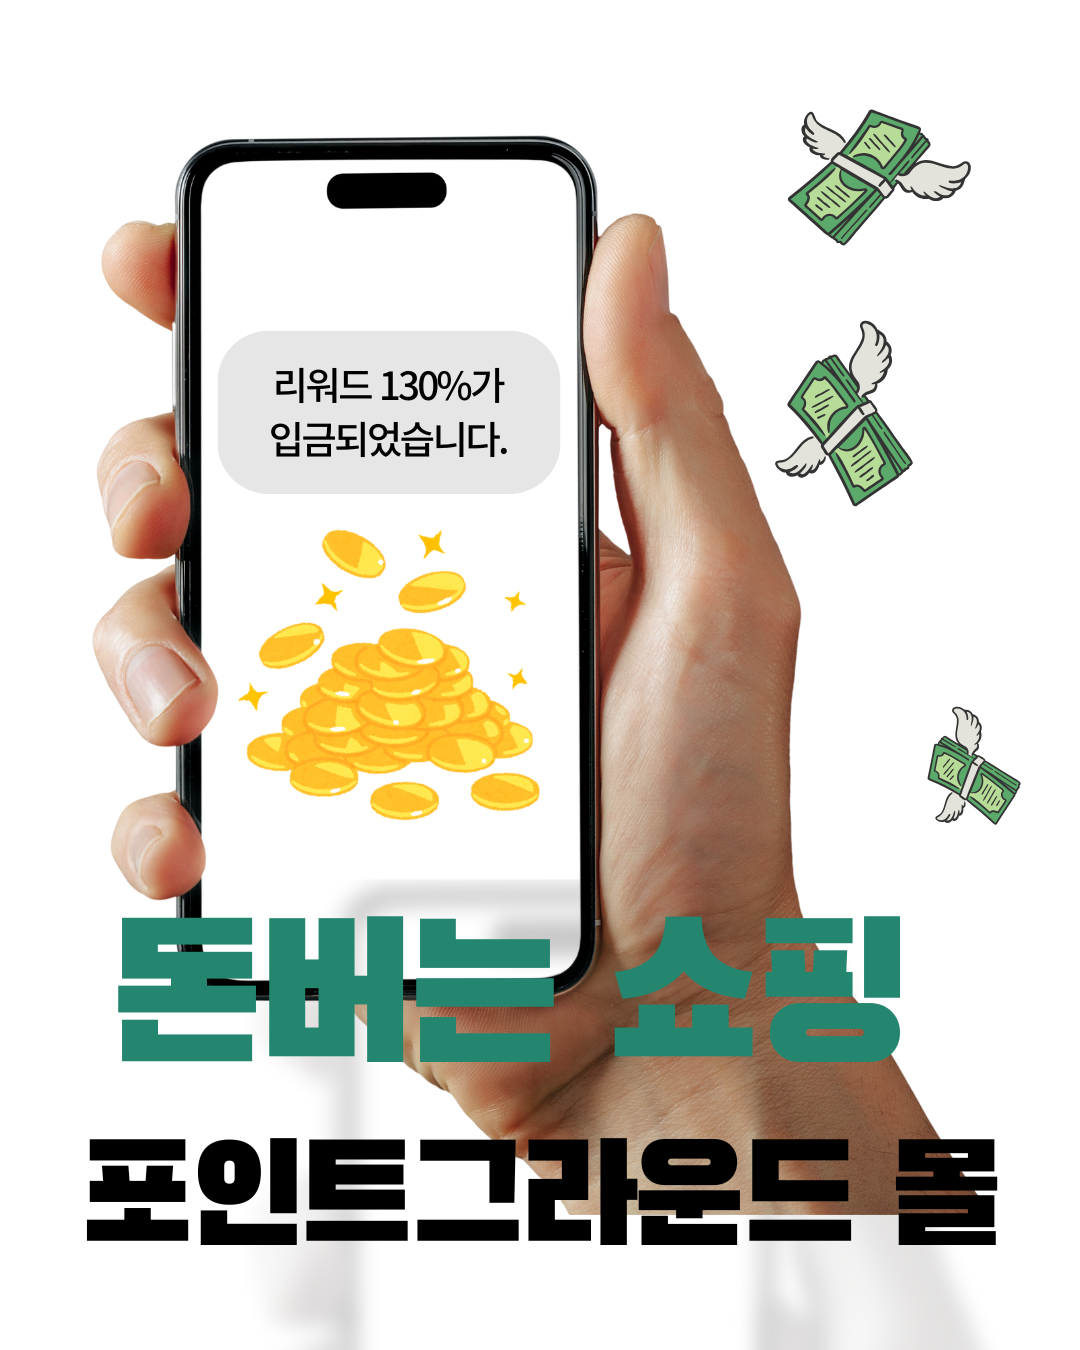
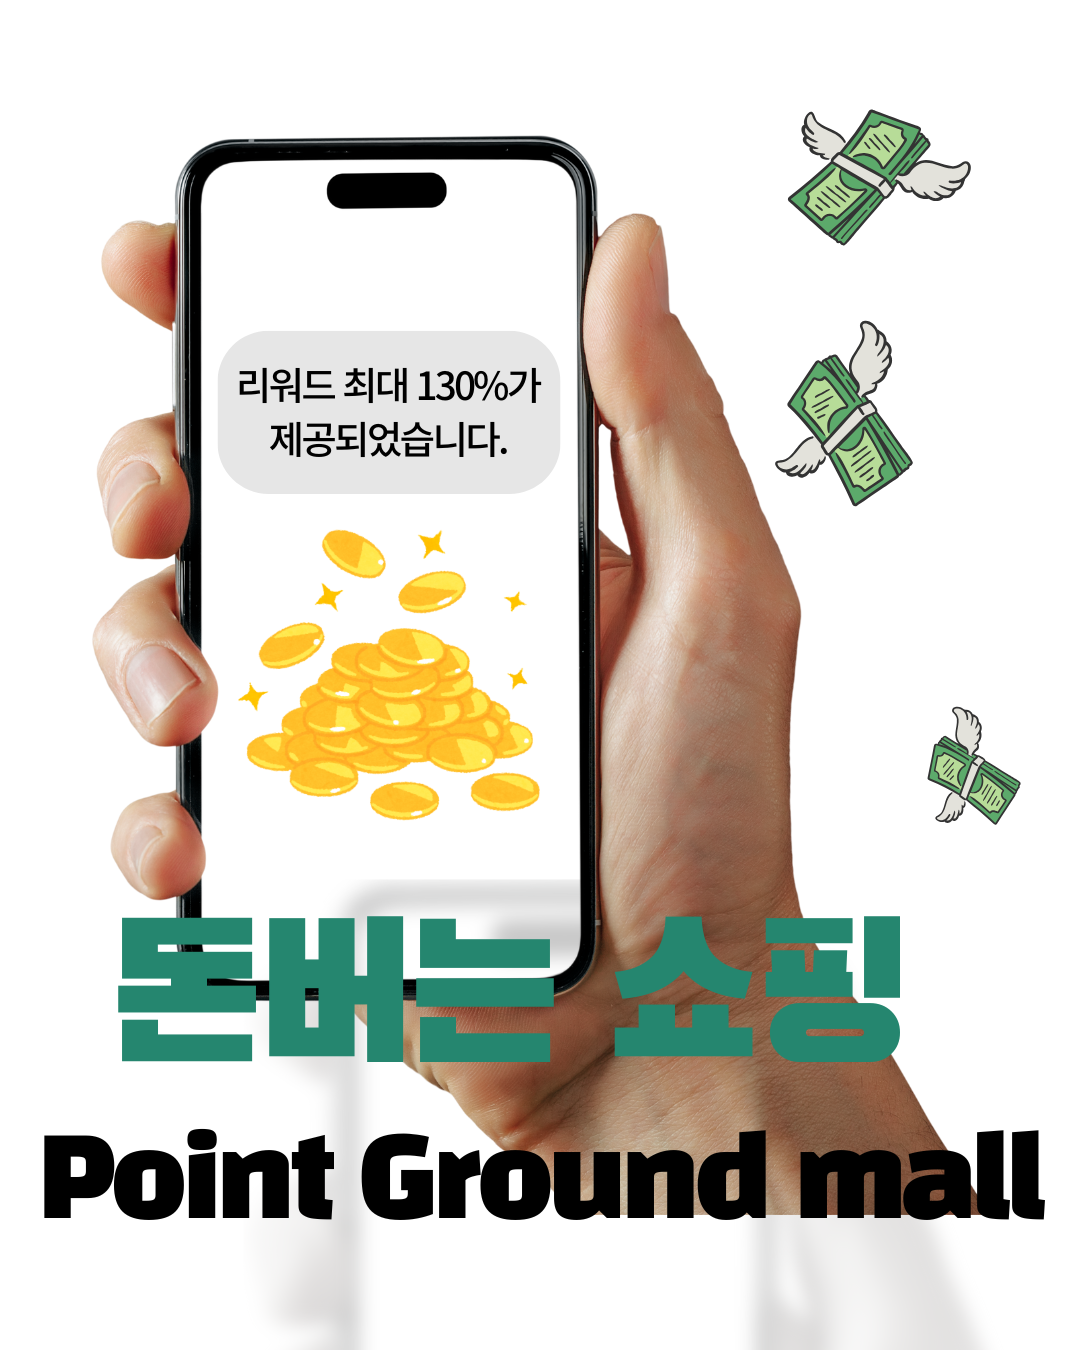
Hyun

Changed region(s): [[0.0306, 0.84, 0.9778, 0.9333], [0.2139, 0.2489, 0.5194, 0.3422]]

diff --git a/index.html b/index.html
@@ -862,10 +862,10 @@
                         </div>
                         <div class="faq-answer">
                             <p>
-                                팀구성 이후 다음사람부터 구매확정할 때마다
-                                PV값이 여러분의 그룹에 지분 비율대로 분배됩니다.
-                                누적풀이 목표풀에 도달하면 그룹 전원에게 130%
-                                리워드가 자동 지급됩니다.
+                                팀구성 이후 다음사람부터 구매할 때마다 PV값이
+                                여러분의 그룹에 분배됩니다.회사 정률풀에 목표가
+                                도달하면 그룹 전원에게 최대130%의 리워드가 자동
+                                제공됩니다.
                             </p>
                         </div>
                     </div>
@@ -891,9 +891,8 @@
                         <div class="faq-answer">
                             <p>
                                 구매하시는 상품의 가격(배송비 제외)에 따라
-                                자동으로 라운드가 결정됩니다. 10만원~20만원은
-                                ROUND 1, 20만원~30만원은 ROUND 2 등 총 8개
-                                라운드로 나뉘어 같은 가격대의 회원들끼리 그룹이
+                                자동으로 라운드가 결정됩니다. 총 8개 라운드로
+                                나뉘어 같은 가격대의 회원들끼리 그룹이
                                 매칭됩니다.
                             </p>
                         </div>
@@ -919,7 +918,7 @@
                         </div>
                         <div class="faq-answer">
                             <p>
-                                적립된 포인트는 적립일로부터 1년간 유효합니다.
+                                적립된 포인트는 적립일로부터 2년간 유효합니다.
                                 유효기간 만료 30일 전에 알림을 보내드립니다.
                                 장기간 미사용 시에는 고객센터로 연락주시면
                                 유효기간 연장 처리가 가능합니다.

diff --git a/styles.css b/styles.css
@@ -216,9 +216,7 @@ body {
 
 /* 히어로 섹션 */
 .hero {
-    position: relative;
     height: 70vh;
-    max-height: 800px;
     overflow: hidden;
 }
 
@@ -1011,11 +1009,6 @@ section:first-of-type {
         display: flex;
     }
 
-    .hero {
-        min-height: 500px;
-        height: 80vh;
-    }
-
     .hero-title {
         font-size: 2.5rem;
     }
@@ -1157,9 +1150,6 @@ section:first-of-type {
     }
     .btn-primary {
         display: none;
-    }
-    .hero {
-        height: 65vh;
     }
 
     .hero-title {
